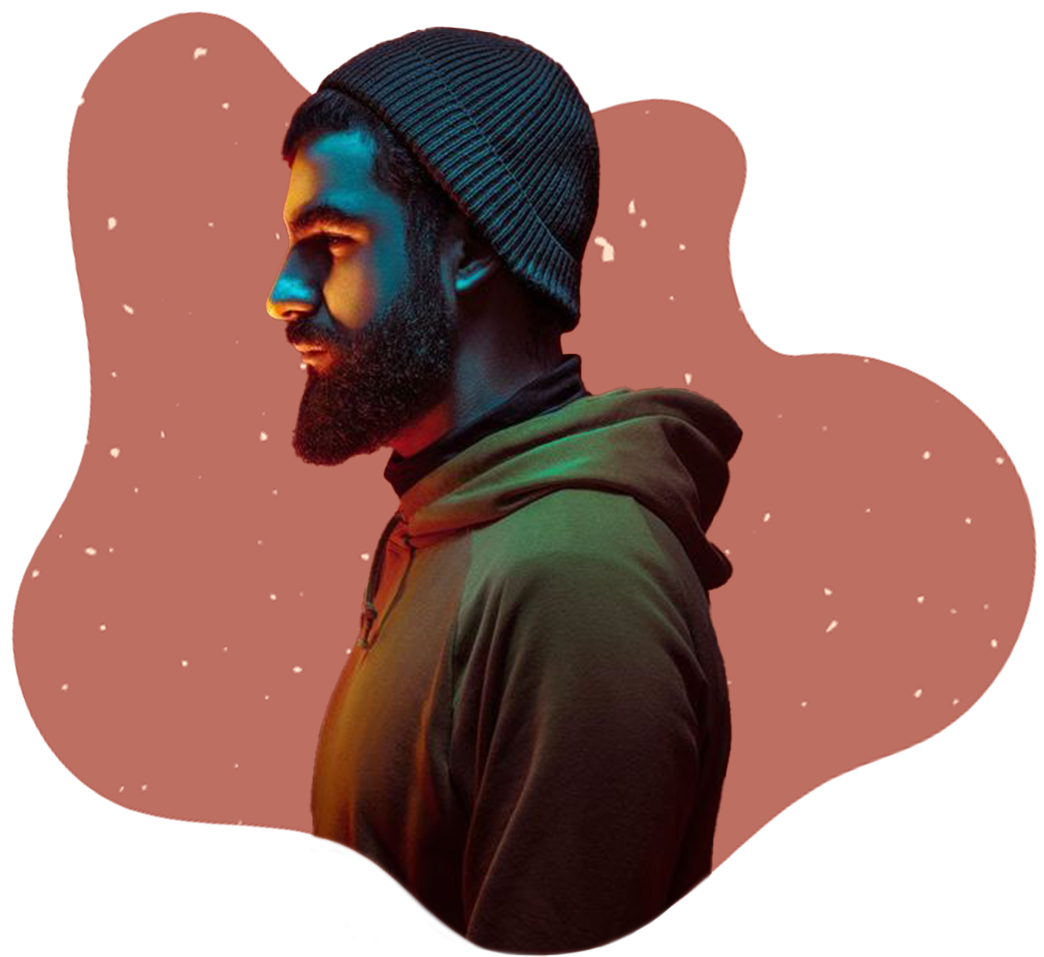
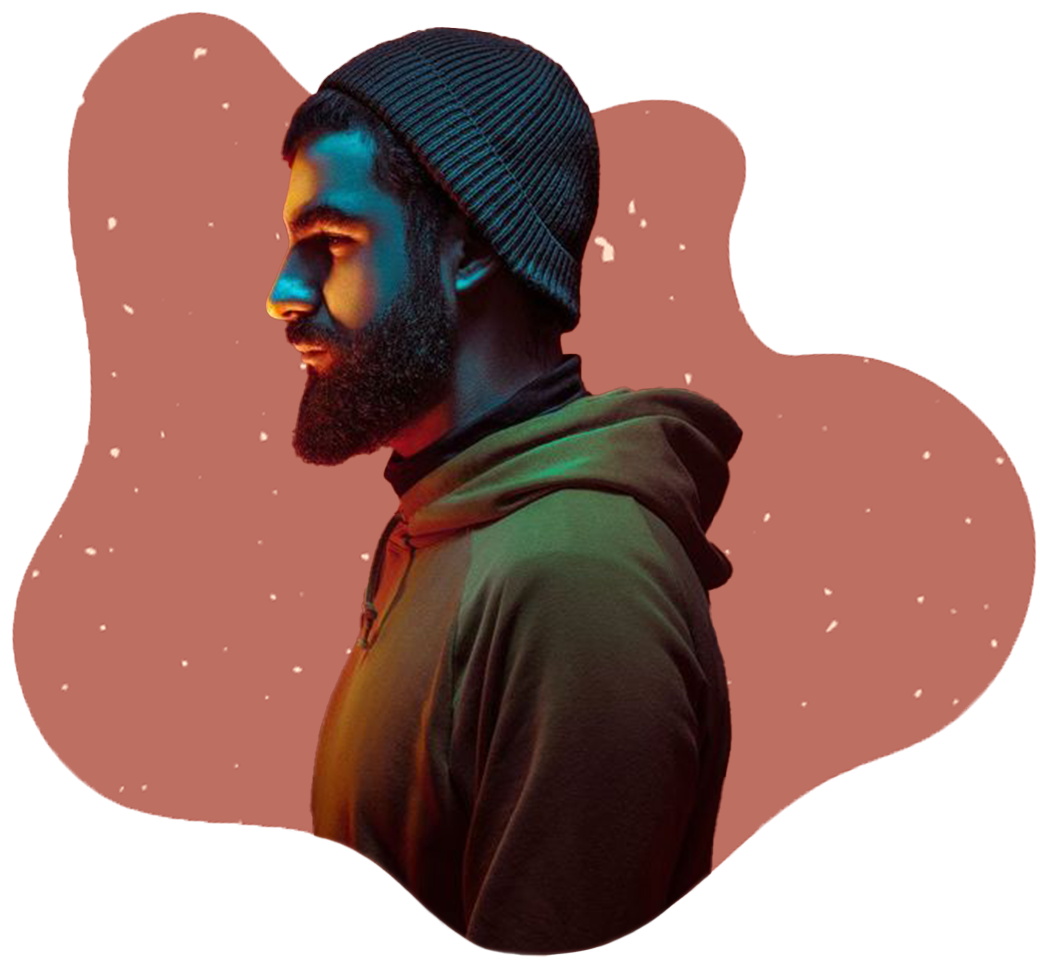
Final Website

diff --git a/index.html b/index.html
@@ -8,10 +8,12 @@
     <title>Portfolio</title>
     <link rel="stylesheet" href="./style.css">
     <link rel="stylesheet" href="./fontawesome-free-5.9.0-web/css/all.css">
+    <link rel="shortcut icon" href="./images/Favicon/icons8-circled-a-50.png">
 </head>
-<!-- add tab image -->
 
 <body>
+    <!-- front page -->
+
     <section class="front-page">
         <div class="front-page-info">
             <h1>A Passionate <br><span>Web-Developer</span></h1>
@@ -26,8 +28,11 @@
         <div class="front-page-image"><img src="./images/person/person 0.png" alt="portfolio image"></div>
     </section>
 
+    <!-- mission page -->
+
     <section class="mission-page">
-        <h1 class="mission-header">Mission in <span>2022</span></h1>
+        <h1 class="mission-heading">Mission in <span>2022</span></h1>
+        <div class="underline"></div>
         <div class="mission-cards">
             <div class="mission-card">
                 <div class="card-item card-item-1">
@@ -54,29 +59,41 @@
         </div>
     </section>
 
-    <section class="explore-section first-explore">
-        <div class="explore-photo">
-            <img src="./images/pictures/coding.png" alt="coding">
-        </div>
-        <div class="explore-info explore-info-1">
-            <h1>develop <br> without Limits</h1>
-            <p>I use industry-standard latest technologies to build interctive, meaningful websites. </p>
-            <button>Explore</button>
-        </div>
+    <!-- explore page -->
 
+    <section class="explore-section first-explore">
+        <div class="explore-section-container">
+            <div class="explore-photo">
+                <img src="./images/pictures/coding.png" alt="coding">
+            </div>
+            <div class="explore-info explore-info-1">
+                <h1>develop <br> without Limits</h1>
+                <p>I use industry-standard latest technologies to build interctive, meaningful websites. </p>
+                <button>Explore</button>
+            </div>
+        </div>
     </section>
+
+    <!-- explore page 2.0 -->
 
     <section class="explore-section second-explore">
-        <div class="explore-info explore-info-2">
-            <h1>Collaboration and <br> global community</h1>
-            <p>Collaborating with professionals with diverse skillsets allows me to handle complex projects and deliver
-                them on time. </p>
-            <button>Explore</button>
-        </div>
-        <div class="explore-photo">
-            <img src="./images/pictures/project.png" alt="coding">
+        <div class="explore-section-align">
+            <div class="explore-section-container">
+                <div class="explore-info explore-info-2">
+                    <h1>Collaboration and <br> global community</h1>
+                    <p>Collaborating with professionals with diverse skillsets allows me to handle complex projects and
+                        deliver
+                        them on time. </p>
+                    <button>Explore</button>
+                </div>
+                <div class="explore-photo">
+                    <img src="./images/pictures/project.png" alt="coding">
+                </div>
+            </div>
         </div>
     </section>
+
+    <!-- skills page -->
 
     <section class="skills">
         <div class="heading">
@@ -92,6 +109,8 @@
             <i class="fab fa-node-js skill-icon-5"></i>
         </div>
     </section>
+
+    <!-- footer section -->
 
     <section class="footer">
         <div class="social-icons">

diff --git a/style.css b/style.css
@@ -80,6 +80,20 @@ button:hover {
     display: flex;
     justify-content: space-between;
     align-items: center;
+    width: 100vw;
+    position: relative;
+}
+
+.front-page::before {
+    content: "";
+    position: absolute;
+    background: url(./images/shapes/shape.png) center/cover no-repeat;
+    top: 0;
+    right: 0;
+    left: 0;
+    bottom: 0;
+    opacity: 0.03;
+    z-index: -1;
 }
 
 .front-page-info {
@@ -98,25 +112,39 @@ button:hover {
 }
 
 /* mission page */
+
 .mission-page {
-    height: 65vh;
+    height: 75vh;
+    display: flex;
+    flex-direction: column;
+    align-items: center;
+    justify-content: ceneter;
 }
 
 .mission-header {
+    display: flex;
+    flex-direction: column;
+    justify-content: center;
+    align-items: center;
+    margin-bottom: 1.5rem;
+}
+
+.mission-heading {
     border: none;
     text-align: center;
-    margin-bottom: 3.5rem;
+    margin-bottom: .5rem;
 }
 
 .card-item {
     display: flex;
     flex-direction: column;
+    justify-content: center;
     align-items: center;
     border-radius: .7rem;
     background: rgb(252, 234, 234);
     margin: .5rem;
     padding: 2rem 1rem;
-    height: 25rem;
+    height: 27rem;
     width: 35rem;
 }
 
@@ -138,6 +166,7 @@ button:hover {
 }
 
 .mission-cards {
+    height: 90%;
     width: 100%;
     display: flex;
     justify-content: space-evenly;
@@ -149,8 +178,11 @@ button:hover {
     box-shadow: 0px 3px 20px -20px black;
 }
 
+/* mission page ends */
+
 /* explore section */
-.explore-section {
+
+.explore-section-container {
     display: flex;
     justify-content: space-evenly;
     align-items: center;
@@ -174,7 +206,35 @@ button:hover {
     width: 90%;
 }
 
+
+.second-explore {
+    width: 100vw;
+    position: relative;
+}
+
+.second-explore::before {
+    content: "";
+    position: absolute;
+    background: url(./images/shapes/shape.png) center/cover no-repeat;
+    top: 0;
+    right: 0;
+    left: 0;
+    bottom: 0;
+    opacity: 0.03;
+    z-index: -1;
+}
+
+.explore-section-align {
+    height: 100%;
+    width: 100%;
+    display: flex;
+    align-items: center;
+}
+
+/* explore section ends*/
+
 /* skills section */
+
 .skills {
     height: 45rem;
     display: flex;
@@ -244,6 +304,8 @@ button:hover {
     color: #3C873A;
 }
 
+/* skills section ends */
+
 /* footer section */
 .footer {
     width: 99vw;
@@ -267,3 +329,5 @@ button:hover {
     color: var(--red);
     transform: scale(1.2);
 }
+
+/* footer section ends */
